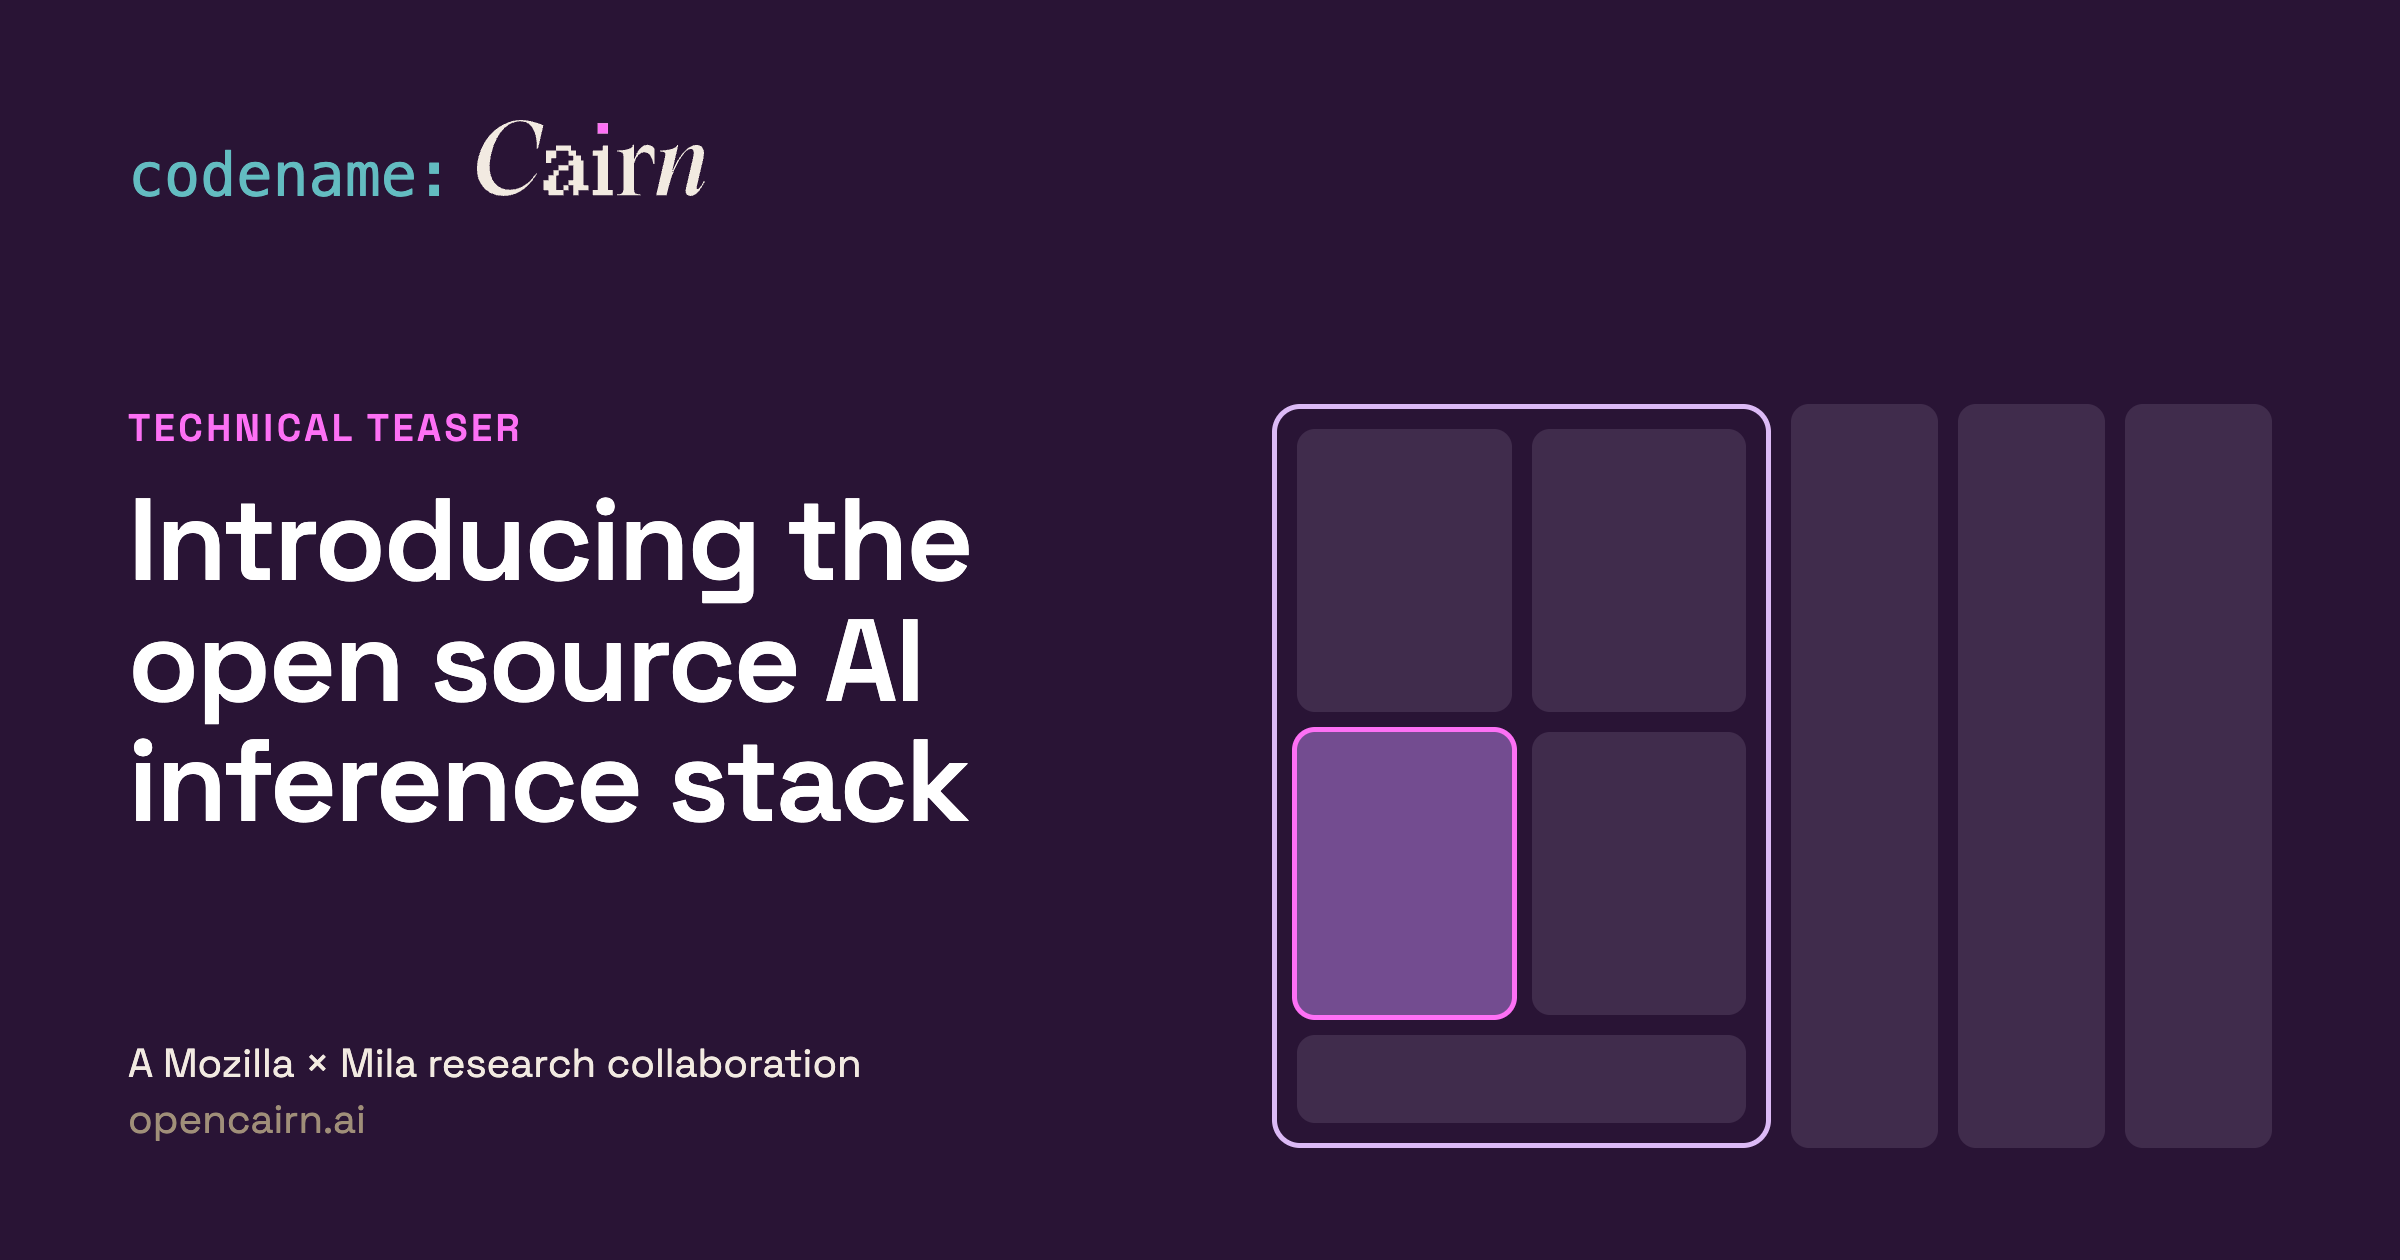
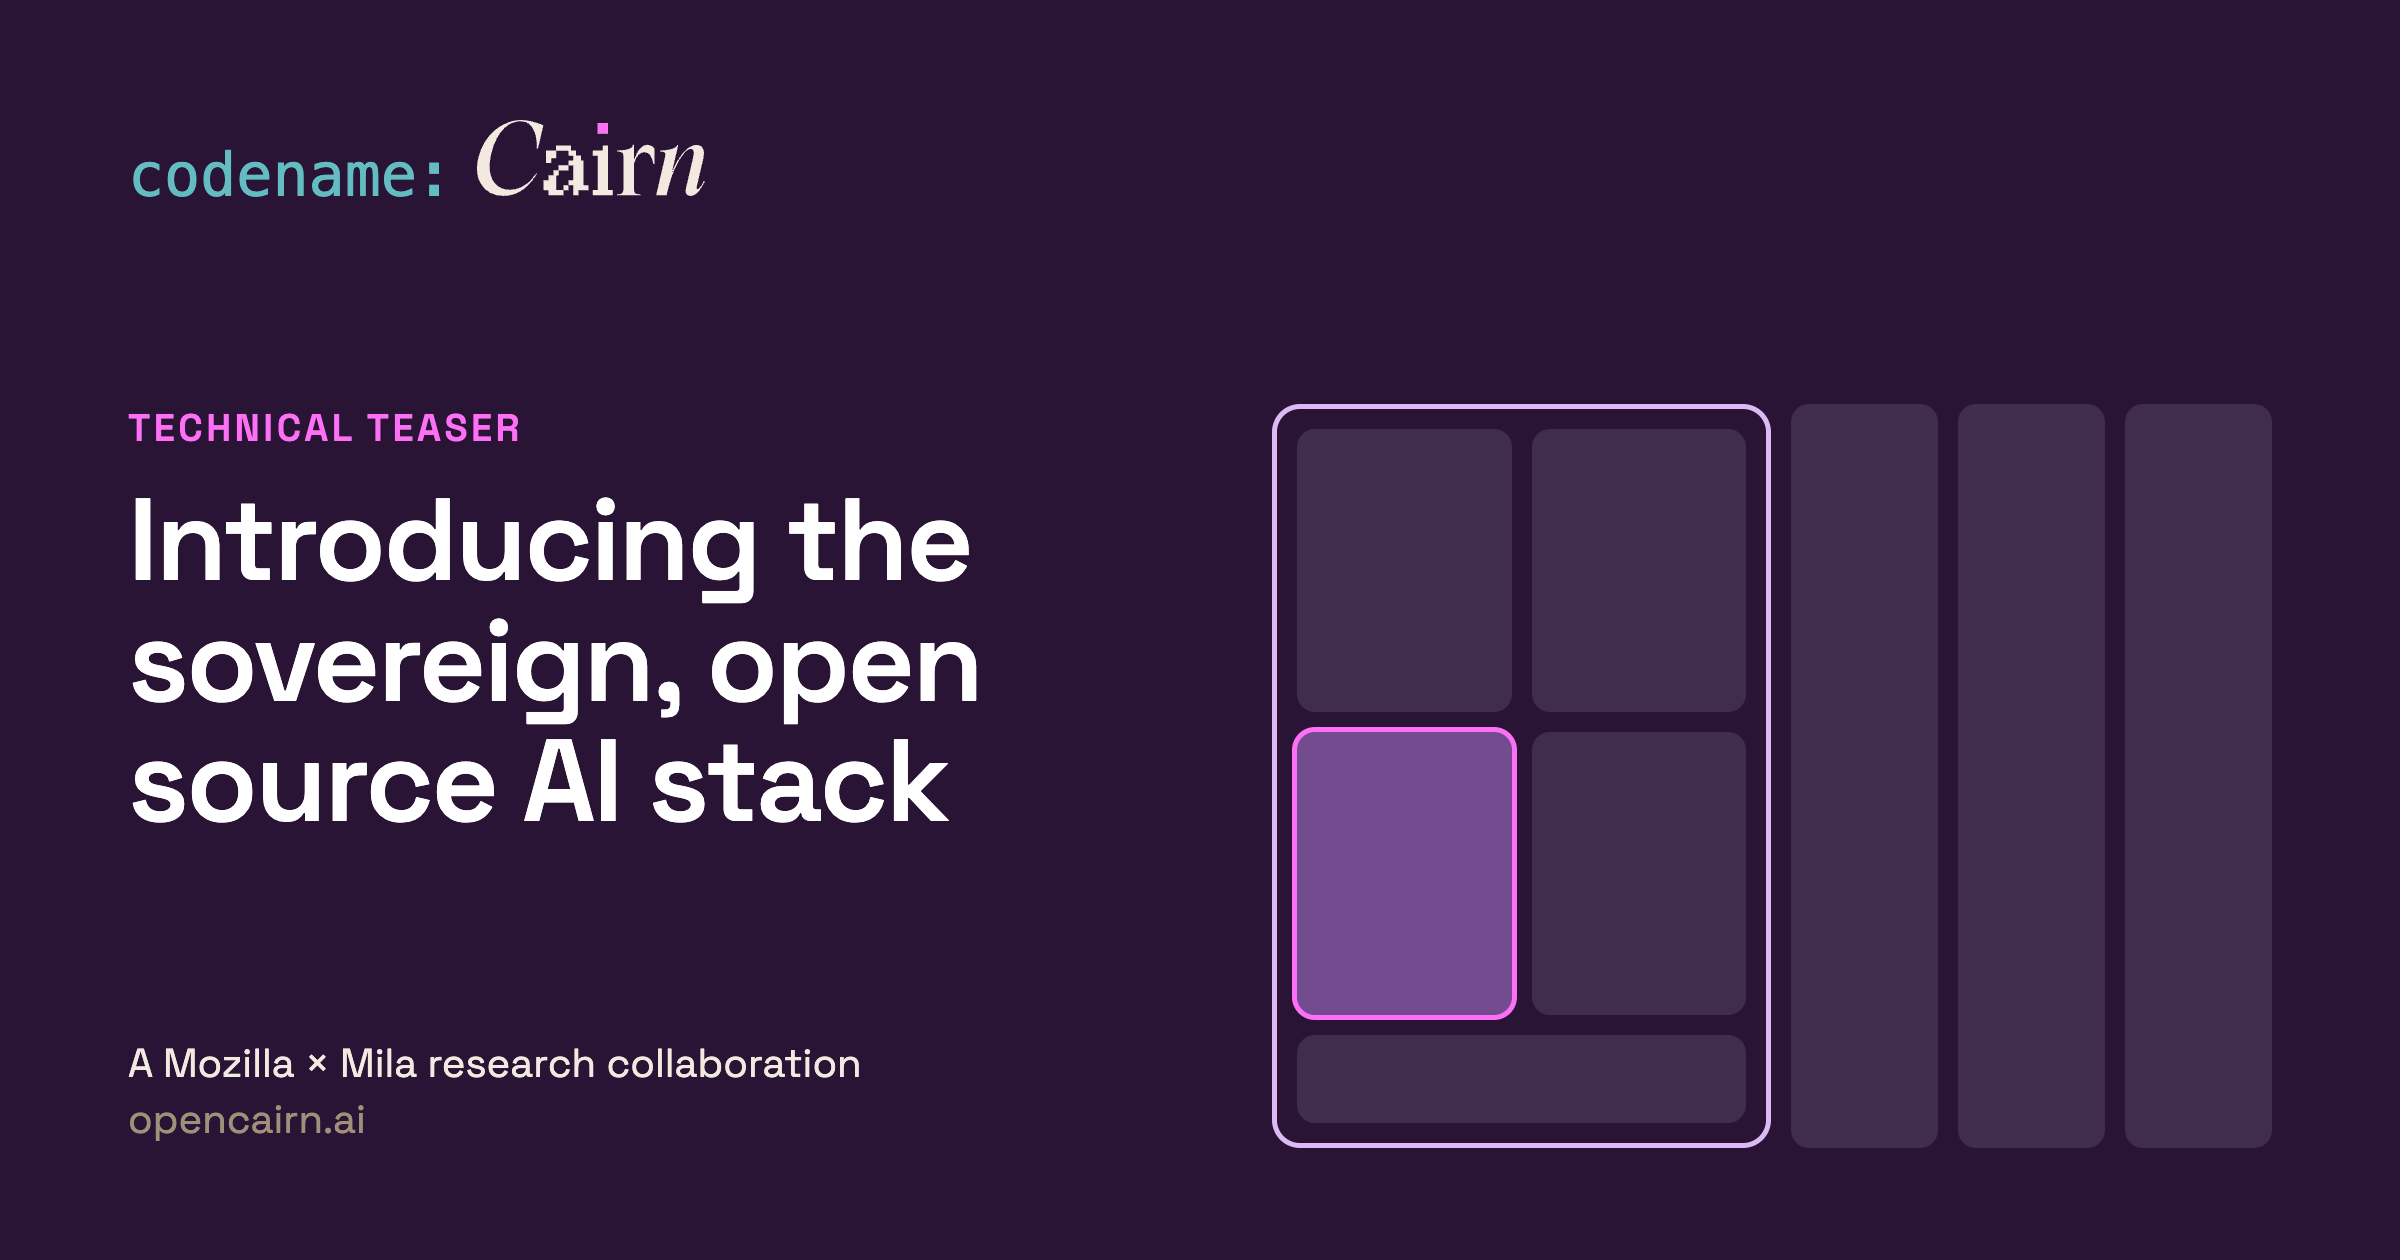
Use the sovereign, open source AI stack title everywhere
Brings the French titles, the static title and share tags in index.html,
and the share card image in line with the English titles.

Changed region(s): [[0.0312, 0.4952, 0.4062, 0.65]]

diff --git a/public/index.html b/public/index.html
@@ -15,17 +15,17 @@
 </script>
 <!-- Title and description are replaced at load time from copy/en.js or copy/fr.js;
      the English values here serve link previews and crawlers that do not run scripts. -->
-<title>Cairn: The open source AI inference stack architecture</title>
+<title>Cairn: The sovereign, open source AI stack architecture</title>
 <meta name="description" content="An open architecture for the AI inference stack. Clear interface contracts connect all layers and components, so you can replace any component. The reference implementation uses the best open source components. A Mozilla × Mila research collaboration.">
 <meta property="og:type" content="website">
-<meta property="og:title" content="Cairn: The open source AI inference stack architecture">
+<meta property="og:title" content="Cairn: The sovereign, open source AI stack architecture">
 <meta property="og:description" content="An open architecture for the AI inference stack. Clear interface contracts connect all layers and components, so you can replace any component. The reference implementation uses the best open source components. A Mozilla × Mila research collaboration.">
 <meta property="og:url" content="https://opencairn.ai/">
 <!-- Share card: rendered from reference/og-card/og-card.html (see the comment there). -->
 <meta property="og:image" content="https://opencairn.ai/assets/og-card.png">
 <meta property="og:image:width" content="2400">
 <meta property="og:image:height" content="1260">
-<meta property="og:image:alt" content="Introducing the open source AI inference stack: a layered architecture schema. A Mozilla × Mila research collaboration.">
+<meta property="og:image:alt" content="Introducing the sovereign, open source AI stack: a layered architecture schema. A Mozilla × Mila research collaboration.">
 <meta name="twitter:card" content="summary_large_image">
 <meta name="twitter:image" content="https://opencairn.ai/assets/og-card.png">
 <link rel="canonical" href="https://opencairn.ai/">

diff --git a/public/copy/fr.js b/public/copy/fr.js
@@ -18,7 +18,7 @@
 window.CAIRN_COPY = window.CAIRN_COPY || {};
 window.CAIRN_COPY.fr = {
   meta: {
-    title: "Cairn : l’architecture de la pile d’inférence d’IA à code source ouvert",
+    title: "Cairn : l’architecture de la pile d’IA souveraine à code source ouvert",
     description: "Une architecture ouverte pour la pile d’inférence d’IA. Des contrats d’interface clairs relient toutes les couches et tous les composants, pour que vous puissiez remplacer n’importe quel composant. L’implémentation de référence utilise les meilleurs composants à code source ouvert. Une collaboration de recherche Mozilla × Mila.",
   },
 
@@ -36,7 +36,7 @@ window.CAIRN_COPY.fr = {
 
   intro: {
     eyebrow: "Avant-goût technique",
-    title: "Découvrez la pile d’inférence d’IA à code source ouvert",
+    title: "Découvrez la pile d’IA souveraine à code source ouvert",
     goal: "Notre objectif est de définir des contrats d’interface clairs entre chaque couche et composant de la pile afin que vous puissiez :",
     points: [
       {

diff --git a/reference/og-card/og-card.html b/reference/og-card/og-card.html
@@ -137,7 +137,7 @@
 
     <div class="text">
       <p class="eyebrow">Technical Teaser</p>
-      <h1>Introducing the open source AI inference stack</h1>
+      <h1>Introducing the sovereign, open source AI stack</h1>
       <p class="credit">A Mozilla × Mila research collaboration<span>opencairn.ai</span></p>
     </div>
 
